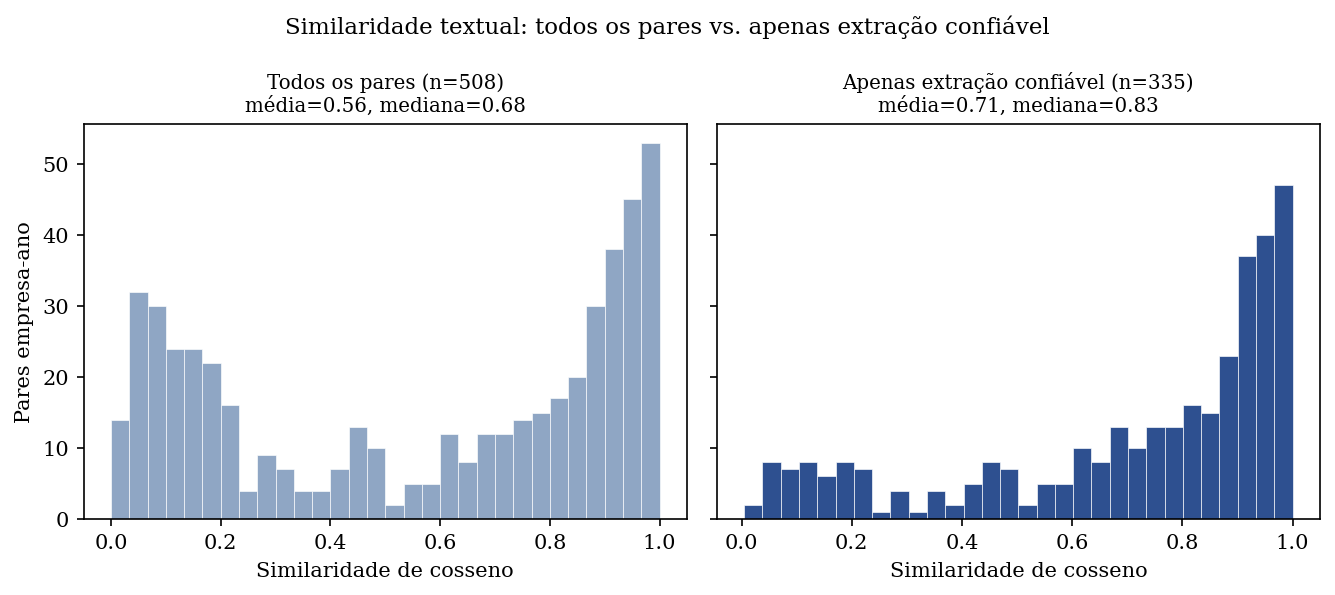
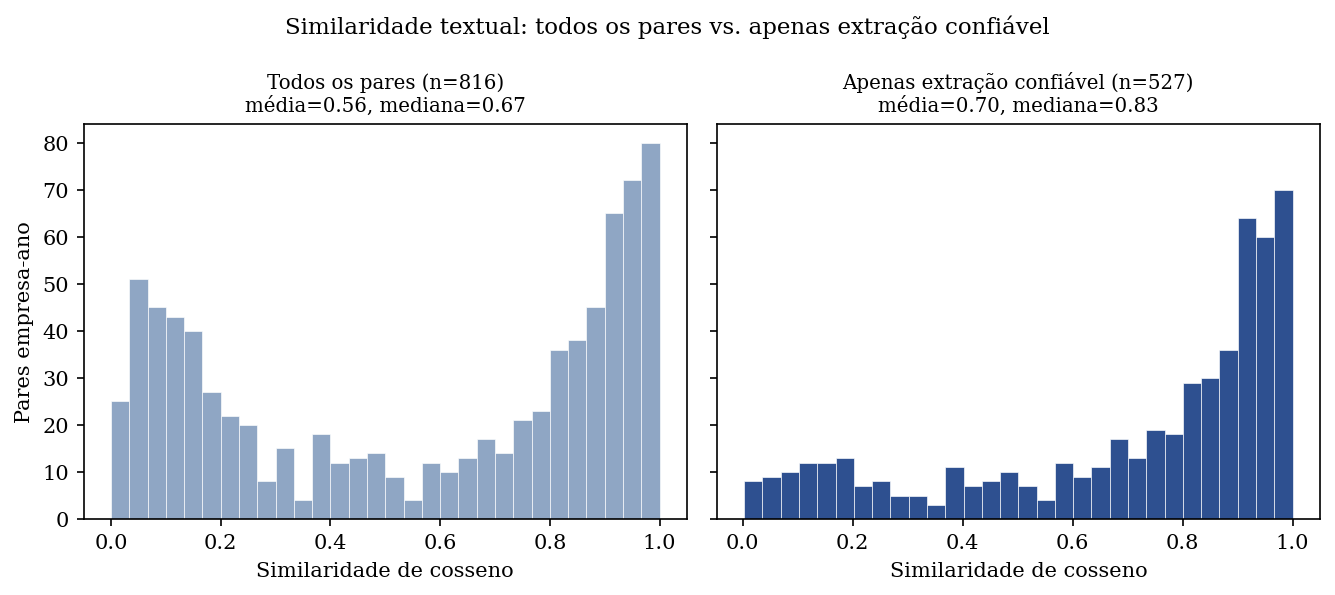
Fix Figura 5.2 data-source inconsistency: use full 111-company universe
Found via user question: Figura 5.2 (todos os pares vs. apenas extração
confiável) was built from similarity_results.csv, an older file scoped to
only the 66 current Ibovespa companies (n=508/335) -- a leftover from the
original POC, before the historical-company expansion that corrects
survivorship bias. Every other number in the thesis (Tabela 4.1, Figs
4.1/4.2/4.4, all H1/H2 tables) already uses the full 111-company universe
(delisted_similarity_results.csv). Switched the chart to that file
(n=816/527, matching Tabela 4.1) and updated the mean/median figures in
the accompanying prose (0.56->0.70 mean, 0.67->0.83 median -- the shift
direction and magnitude are essentially unchanged, so no conclusion is
affected, just the reported n and the source file used).

diff --git a/docs/latex/main.tex b/docs/latex/main.tex
@@ -437,7 +437,7 @@ Antes dos testes confirmatórios de H1 e H2 (Seções~\ref{sec:h1_resultados}--\
     {\footnotesize Fonte: elaborada pelo autor a partir dos logs de extração do projeto (corpus anual completo, 997 arquivamentos).}
 \end{figure}
 
-\textbf{A similaridade se comporta melhor exatamente onde a extração é confiável.} A Figura~\ref{fig:similaridade_bruta_confiavel} compara a distribuição de similaridade sobre todos os pares extraídos com a distribuição restrita aos pares em que ambos os anos tiveram extração confiável. Restringir à extração confiável desloca a média de 0,56 para 0,71 e a mediana de 0,68 para 0,83, e reduz a concentração anômala de escores próximos de 0 e exatamente 1 que caracteriza os casos de falha de extração conhecidos (ver adiante). Esse é o padrão esperado se a medida estiver de fato lendo o texto da nota; não seria o padrão esperado se a variação observada fosse puramente ruído de extração. É essa evidência, junto com a ausência de qualquer mudança nas conclusões de H1 e H2 ao aplicar a restrição (Seção~\ref{sec:h1_resultados}), que motiva adotar a extração confiável como a amostra padrão da nota de dívida isolada em todo o restante do trabalho (Seção~\ref{sec:confiabilidade}), em vez de mantê-la apenas como um teste de robustez à parte.
+\textbf{A similaridade se comporta melhor exatamente onde a extração é confiável.} A Figura~\ref{fig:similaridade_bruta_confiavel} compara a distribuição de similaridade sobre todos os pares extraídos com a distribuição restrita aos pares em que ambos os anos tiveram extração confiável. Restringir à extração confiável desloca a média de 0,56 para 0,70 e a mediana de 0,67 para 0,83, e reduz a concentração anômala de escores próximos de 0 e exatamente 1 que caracteriza os casos de falha de extração conhecidos (ver adiante). Esse é o padrão esperado se a medida estiver de fato lendo o texto da nota; não seria o padrão esperado se a variação observada fosse puramente ruído de extração. É essa evidência, junto com a ausência de qualquer mudança nas conclusões de H1 e H2 ao aplicar a restrição (Seção~\ref{sec:h1_resultados}), que motiva adotar a extração confiável como a amostra padrão da nota de dívida isolada em todo o restante do trabalho (Seção~\ref{sec:confiabilidade}), em vez de mantê-la apenas como um teste de robustez à parte.
 
 \begin{figure}[htbp]
     \centering
@@ -446,7 +446,7 @@ Antes dos testes confirmatórios de H1 e H2 (Seções~\ref{sec:h1_resultados}--\
     \label{fig:similaridade_bruta_confiavel}
     \vspace{0.2cm}
 
-    {\footnotesize Fonte: elaborada pelo autor a partir de \textit{similarity\_results.csv} (POC, corpus anual atual, 66 empresas).}
+    {\footnotesize Fonte: elaborada pelo autor a partir de \textit{delisted\_similarity\_results.csv} (corpus anual completo, 111 empresas).}
 \end{figure}
 
 \textbf{Dois casos concretos.} WEG (2015$\to$2016, similaridade 0,9915) é um exemplo de similaridade genuinamente alta: a estrutura da nota é praticamente idêntica entre os dois anos, apenas valores e data mudam, o padrão de ``boilerplate atualizado com novos números''. Já a Yduqs (2015--2019, similaridade exatamente 1,0000 em quatro pares seguidos) é um exemplo de falha de extração: o localizador capturou por engano, nesses anos, um parágrafo genérico de política contábil em vez da nota real. Todo escore degenerado (exatamente 0 ou 1) inspecionado neste projeto rastreou até uma falha de extração conhecida, não até uma falha da própria medida de similaridade.
